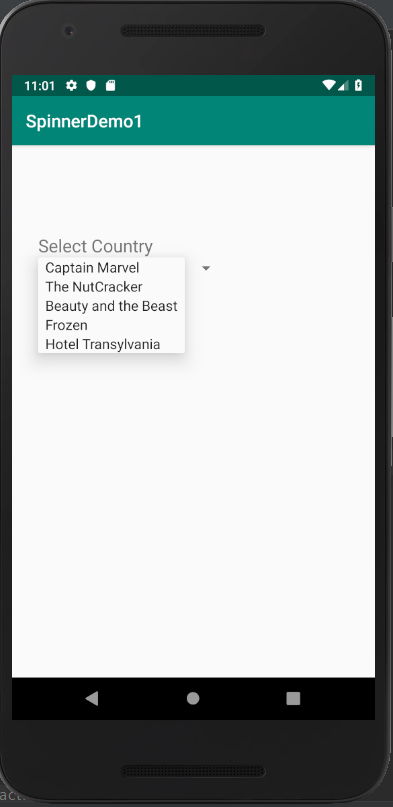
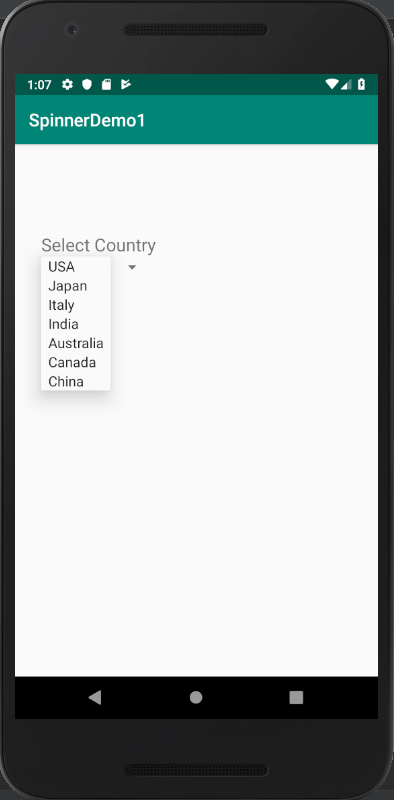
Updated project

diff --git a/containers/Spinner/SpinnerDemo1/app/src/main/java/com/android/containers/MainActivity.java b/containers/Spinner/SpinnerDemo1/app/src/main/java/com/android/containers/MainActivity.java
@@ -50,10 +50,12 @@ public class MainActivity extends AppCompatActivity implements AdapterView.OnIte
 
     private void initializeCountryList(){
         mCountryList = new ArrayList();
-        mCountryList.add("Captain Marvel");
-        mCountryList.add("The NutCracker");
-        mCountryList.add("Beauty and the Beast");
-        mCountryList.add("Frozen");
-        mCountryList.add("Hotel Transylvania");
+        mCountryList.add("USA");
+        mCountryList.add("Japan");
+        mCountryList.add("Italy");
+        mCountryList.add("India");
+        mCountryList.add("Australia");
+        mCountryList.add("Canada");
+        mCountryList.add("China");
     }
 }

diff --git a/containers/Spinner/SPINNER.md b/containers/Spinner/SPINNER.md
@@ -1,0 +1,21 @@
+# SPINNER :
+Repo for Container Spinner in Android Projects
+
+# Spinner :
+
+- Spinner provides a quick way to select one value from a set of values. 
+Android spinners are the drop down-list.
+- In a default state, a spinner shows its currently selected value.
+ It provides a easy way to select a value from a list of values.
+- Spinner is associated with Adapter view so to fill the data in spinner we need to use one of the Adapter class.
+- To fill the data in a spinner we need to implement an adapter class. 
+- A spinner is mainly used to display only text field so we can implement Array Adapter for that. 
+We can also use Base Adapter and other custom adapters to display a spinner with more customize list. 
+ 
+The program [SpinnerDemo1](SpinnerDemo1) demonstrates Spinner with ArrayAdapter.    
+
+Links:
+
+[Link 1](https://developer.android.com/guide/topics/ui/controls/spinner)
+
+
